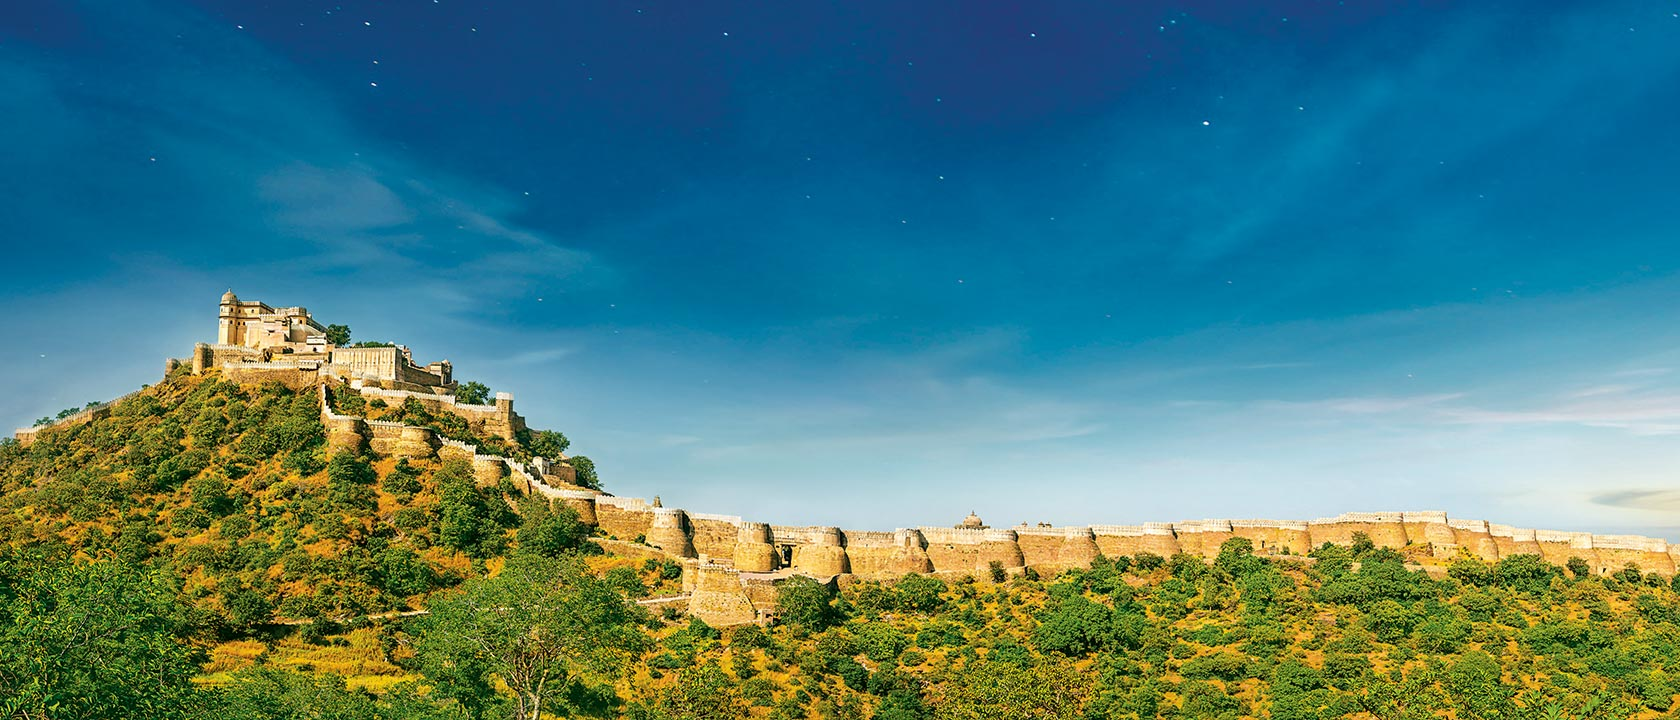
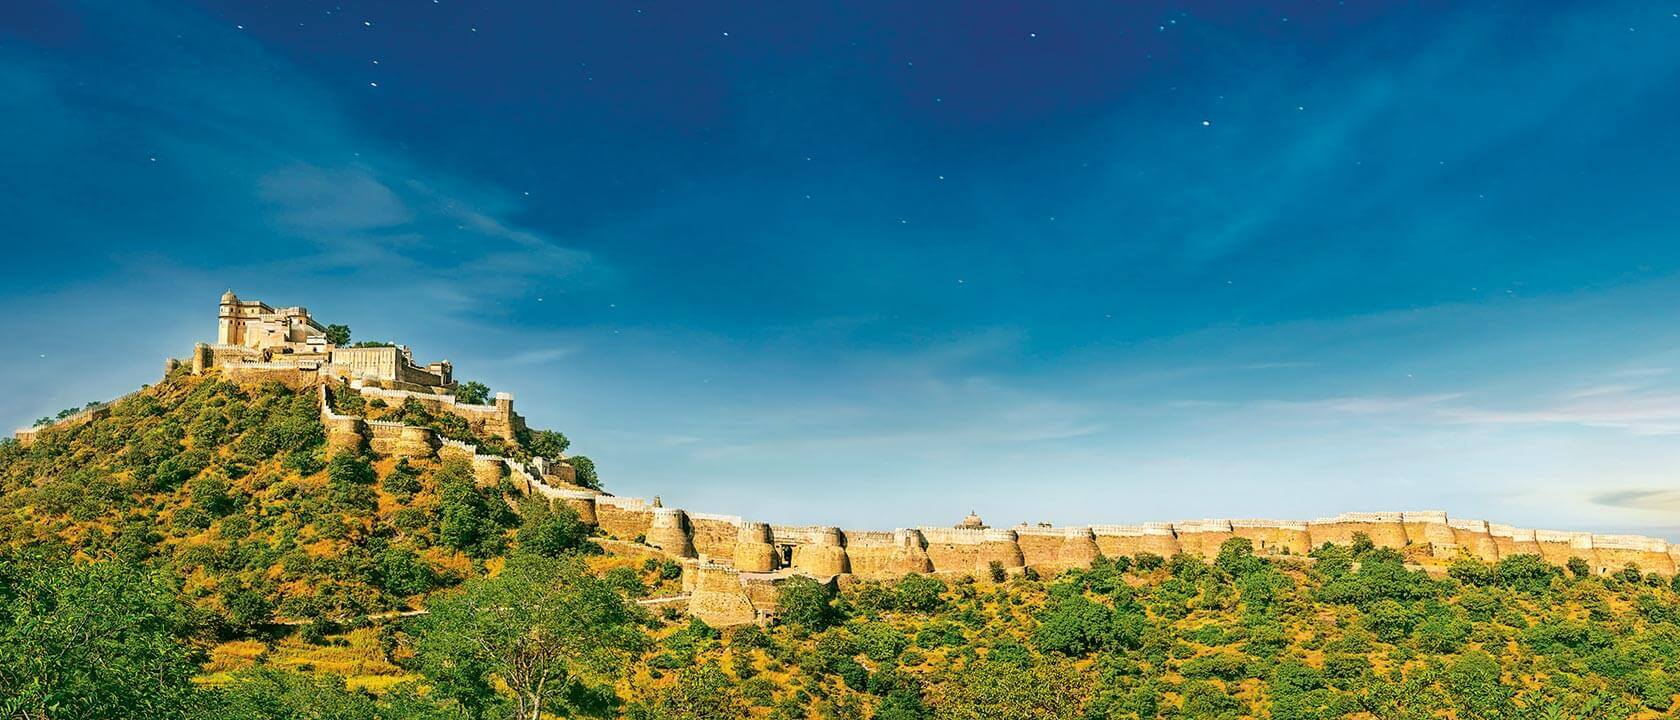
optimized images

Changed region(s): [[0.0, 0.4889, 1.0, 1.0], [0.1238, 0.4278, 0.1857, 0.4583], [0.1857, 0.4583, 0.2167, 0.4889]]

diff --git a/demo/assets/style.css b/demo/assets/style.css
@@ -64,10 +64,10 @@ transition: all 1s ease-out;
     background: url("img/wallpaper/3.jpg");
 }
 .bar:nth-of-type(4){
-    background: url("img/wallpaper/4.png");
+    background: url("img/wallpaper/4.jpg");
 }
 .bar:nth-of-type(5){
-    background: url("img/wallpaper/5.png");
+    background: url("img/wallpaper/5.jpg");
 }
 .bar:nth-of-type(6){
     background: url("img/wallpaper/11.jpg");
